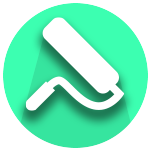
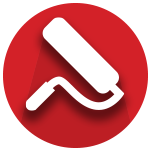
ajustes diseño

diff --git a/public/css/ferrobet.css b/public/css/ferrobet.css
@@ -1,4 +1,7 @@
 
+header.en-grupos {
+  background-image: url('../img/header-bg-engrupos.jpg') !important;
+}
 .text-primary {
   color: #d32128;
 }
@@ -7,18 +10,19 @@ body {
   font-family: 'Exo 2', sans-serif;
   font-size: 14px;
   line-height: 1.42857143;
-  color: #bdccd4;
-  background-color: #001f00;
+  color: #9a989b;
+  background-color: #575756;
 }
 
 a {
-  color: #d32128;
+  color: #9a989b;
 }
 a:hover,
 a:focus,
 a:active,
 a.active {
-  color: #af1e29;
+  color: #fff;
+  text-decoration: none;
 }
 
 h1, 
@@ -43,13 +47,16 @@ h4,
 	text-align: center;
   	margin-top: 20px;
   	margin-bottom: 10px;
-  	color: #3dffb2;
+  	color: #fff;
 }
 
-
+h4.service-heading
+{
+  font-size:24px;
+}
 strong {
   font-weight: 600;
-  color: #3dffb2;
+  color: #fff;
 }
 
 .footer-espacios {
@@ -58,7 +65,7 @@ strong {
 }
 .footer-color {
   color: white;
-  background-color: #575756;
+  background-color: #9a989b;
 }
 .footer-color strong {
   color:#fff;
@@ -74,12 +81,12 @@ strong {
 }
 
 .preparacion-color {
-	background-color: #013801;
+	background-color: #414041;
   border-radius: 5px;
   margin-bottom: 10px;
 }
 .aplicacion-color {
-	background-color: #025102;
+	background-color: #393839;
   border-radius: 5px;
 }
 .puntodeventa-color {
@@ -110,9 +117,9 @@ strong {
 .btn-primary:active,
 .btn-primary.active,
 .open .dropdown-toggle.btn-primary {
-  color: #001f00 !important;
-  background-color: #97ffd2 !important;
-  border-color: #3dffb2 !important;
+  color: #fff !important;
+  background-color: #a31a24 !important;
+  border-color: #fff !important;
 }
 .btn-primary:active,
 .btn-primary.active,
@@ -134,11 +141,11 @@ fieldset[disabled] .btn-primary:active,
 .btn-primary.disabled.active,
 .btn-primary[disabled].active,
 fieldset[disabled] .btn-primary.active {
-  background-color: #3dffb2;
-  border-color: #3dffb2;
+  background-color: #fff;
+  border-color: #fff;
 }
 .btn-primary .badge {
-  color: #3dffb2;
+  color: #fff;
   background-color: white;
 }
 
@@ -152,8 +159,8 @@ fieldset[disabled] .btn-primary.active {
 
 .btn-xl {
   color: #001f00;
-  background-color: #3dffb2;
-  border-color: #3dffb2;
+  background-color: #fff;
+  border-color: #fff;
   font-family: 'Exo 2', sans-serif;
   text-transform: uppercase;
   font-weight: 700;
@@ -168,7 +175,7 @@ fieldset[disabled] .btn-primary.active {
 .open .dropdown-toggle.btn-xl {
   color: #001f00;
   background-color: #a2f9d4;
-  border-color: #3dffb2;
+  border-color: #fff;
 }
 .btn-xl:active,
 .btn-xl.active,
@@ -190,11 +197,11 @@ fieldset[disabled] .btn-xl:active,
 .btn-xl.disabled.active,
 .btn-xl[disabled].active,
 fieldset[disabled] .btn-xl.active {
-  background-color: #3dffb2;
-  border-color: #3dffb2;
+  background-color: #fff;
+  border-color: #fff;
 }
 .btn-xl .badge {
-  color: #3dffb2;
+  color: #fff;
   background-color: white;
 }
 
@@ -231,7 +238,7 @@ fieldset[disabled] .btn-xl.active {
 .navbar-custom .navbar-nav > .active > a {
   border-radius: 0;
   color: #001f00;
-  background-color: #3dffb2;
+  background-color: #fff;
 }
 .navbar-custom .navbar-nav > .active > a:hover,
 .navbar-custom .navbar-nav > .active > a:focus {

diff --git a/resources/views/producto.blade.php b/resources/views/producto.blade.php
@@ -9,8 +9,8 @@
         <!-- Page Header -->
         <div class="row">
             <div class="col-lg-12">
-                <h1>DUO EFECTOS ESPECIALES</h1><br>
-                <h3>Para metales</h3>
+                <h1>{{$producto->nombre}}</h1><br>
+                <h3>{{$producto->descripcion}}</h3>
                 <h4>• Terminación rústica.<br>
                     • Brillo Mate.
                 </h4>
@@ -25,7 +25,7 @@
                 En el caso de los forjados, utilizan en su formulación pigmentos de óxido de hierro micáceo, son químicamente inalterables, debido a la estructura laminar de su partícula que establece una barrera física que evita el paso del agua y sus sales; factores nocivos frente a la corrosión. Su elástica película no se cuartea ni resquebraja, conservando muy buena adherencia, sin ampollarse ni descascararse. Embellecen los metales ferrosos con un mínimo de mano de obra, sencilla aplicación y notable economía de producto, brindando una textura de especial estilo, tanto para exteriores como para interiores.</p>
             </div>
             <div class="col-sm-6 col-md-4">
-                    <img class="img-responsive" src="{{URL::to('img/latavacia.png')}}"  alt="esmalte">
+                    <img class="img-responsive" src="{{URL::to((file_exists(public_path().'/uploads/images/'.$producto->img))?'uploads/images/'.$producto->img:'img/latavacia.png')}}"  alt="{{$producto->nombre}}">
             </div>
             <div class="col-sm-6 col-sm-offset-4 col-md-4 col-md-offset-0">
                 <p><strong>Rendimiento:</strong> 12 a 15 m²/lt. por mano, dependiendo del espesor, de la dilución, de la rugosidad de la superficie.<br>

diff --git a/resources/views/welcome.blade.php b/resources/views/welcome.blade.php
@@ -5,7 +5,7 @@
 
 @section('content')
 <!-- Header -->
-    <header>
+    <header class="en-grupos">
         <div class="container container-body">
             <div class="intro-text">
                 &nbsp;
@@ -24,12 +24,15 @@
             <div class="row text-center">
                 @foreach($categorias as $categoria)
                 <div class="col-md-4">
-                    <div class="row"><!-- Picto -->
-                     <img class="img-responsive center-block img-circle" src="{{URL::to('img/'.$categoria->picto.'.png')}}" alt="esmaltes">
-                    </div>
+                    
                     <h4 class="service-heading">{{$categoria->nombre}}</h4>
                     @foreach($categoria->productos as $producto)
-                    <p class="text-muted"><a href="#">{{$producto->nombre}}</a><br>
+                    @if(file_exists(public_path().'/uploads/images/'.$producto->img_chica))
+                    <div class="row"><!-- Picto -->
+                     <a href="/producto/{{$producto->slug}}"><img border='none' class="img-responsive center-block img-circle" src="{{URL::to('uploads/images/'.$producto->img_chica)}}" alt="{{$producto->nombre}}"></a>
+                    </div>
+                    @endif
+                    <p class="text-muted"><a href="/producto/{{$producto->slug}}">{{$producto->nombre}}</a><br>
                     {{$producto->descripcion}}</p>
                     @endforeach
                 </div>

diff --git a/resources/views/menu.blade.php b/resources/views/menu.blade.php
@@ -21,7 +21,7 @@
                       </button>
                       <ul class="dropdown-menu">
                         @foreach($categoria->productos as $producto)
-                        <li><a href="/producto">{{$producto->nombre}}</a></li>
+                        <li><a href="/producto/{{$producto->slug}}">{{$producto->nombre}}</a></li>
                         @endforeach
                       </ul>
                   </div>
@@ -35,7 +35,7 @@
                         <li></li>
                             <a  class="btn btn-default" href="/puntos-de-venta">Puntos de Venta</a>
                         <li></li>
-                            <a class="btn btn-default" href="https://www.youtube.com/watch?v=Kdj9CtpQKl4" target="_blank">Videos</a>
+                            <a class="btn btn-default" href="https://www.youtube.com/channel/UCZHgDtYmIUBg5rKISDqEIFg" target="_blank">Videos</a>
                         <li></li>
                         <div class="btn-group">
                           <button type="button" class="btn btn-default dropdown-toggle" data-toggle="dropdown" aria-haspopup="true" aria-expanded="false">Contacto<span class="caret"></span>

diff --git a/database/migrations/2016_08_04_154054_alter_productos_imgs.php b/database/migrations/2016_08_04_154054_alter_productos_imgs.php
@@ -1,0 +1,32 @@
+<?php
+
+use Illuminate\Database\Schema\Blueprint;
+use Illuminate\Database\Migrations\Migration;
+
+class AlterProductosImgs extends Migration
+{
+    /**
+     * Run the migrations.
+     *
+     * @return void
+     */
+    public function up()
+    {
+        Schema::table('productos', function (Blueprint $table) {
+            $table->string('img')->nullable();
+            $table->string('img_chica')->nullable();
+        });
+    }
+
+    /**
+     * Reverse the migrations.
+     *
+     * @return void
+     */
+    public function down()
+    {
+        Schema::table('productos', function (Blueprint $table) {
+            $table->dropColumn(['img','img_chica']);
+        });
+    }
+}

diff --git a/database/migrations/2016_08_04_160318_alter_productos_slug.php b/database/migrations/2016_08_04_160318_alter_productos_slug.php
@@ -1,0 +1,31 @@
+<?php
+
+use Illuminate\Database\Schema\Blueprint;
+use Illuminate\Database\Migrations\Migration;
+
+class AlterProductosSlug extends Migration
+{
+    /**
+     * Run the migrations.
+     *
+     * @return void
+     */
+    public function up()
+    {
+        Schema::table('productos', function (Blueprint $table) {
+            $table->string('slug')->default('');
+        });
+    }
+
+    /**
+     * Reverse the migrations.
+     *
+     * @return void
+     */
+    public function down()
+    {
+        Schema::table('productos', function (Blueprint $table) {
+            $table->dropColumn(['slug']);
+        });
+    }
+}

diff --git a/app/Producto.php b/app/Producto.php
@@ -6,7 +6,7 @@ use Illuminate\Database\Eloquent\Model;
 
 class Producto extends Model
 {
-    protected $fillable = ["categoria_id","nombre","descripcion","descripcion_larga","preparacion","aplicacion","caracteristicas"];
+    protected $fillable = ["categoria_id","nombre","descripcion","descripcion_larga","preparacion","aplicacion","caracteristicas","img","img_chica","slug"];
 
     public function categoria(){
     	return $this->belongsTo('App\Categoria');
@@ -14,4 +14,6 @@ class Producto extends Model
     public function getLaCategoriaAttribute(){
     	return $this->categoria->nombre;
     }
+
+
 }

diff --git a/app/Http/Controllers/ProductoController.php b/app/Http/Controllers/ProductoController.php
@@ -40,9 +40,15 @@ class ProductoController extends CrudController{
 
 			$this->edit->label('Editar Producto');
 
+			$this->edit->add('slug', 'Slug', 'text')->rule('required');
+			
 			$this->edit->add('nombre', 'Nombre', 'text')->rule('required');
 		
 			$this->edit->add('descripcion', 'Descripcion', 'text');
+
+			$this->edit->add('img', 'Foto', 'image')->move('uploads/images/')->preview(160,160);
+			
+			$this->edit->add('img_chica', 'Foto Chica', 'image')->move('uploads/images/')->preview(80,80);
 
         return $this->returnEditView();
     }    

diff --git a/app/Http/routes.php b/app/Http/routes.php
@@ -16,6 +16,10 @@
 Route::get('/', function () {
     return view('welcome',['title'=>'Proteje tus metales']);
 });
+Route::get('/producto/{slug}', function ($slug) {
+	$producto = App\Producto::where('slug','=',$slug)->firstOrFail();
+    return view('producto',['title'=>$producto->nombre,'producto'=>$producto]);
+});
 Route::get('/producto', function () {
     return view('producto',['title'=>'Producto']);
 });

diff --git a/database/seeds/DatabaseSeeder.php b/database/seeds/DatabaseSeeder.php
@@ -57,11 +57,6 @@ class ProductoTableSeeder extends Seeder
 			],
 			[
 				"categoria_id"=>3,
-				"nombre"=>"ANTIOXIDO FERROBET",
-				"descripcion"=>"Fondo para superficies ferrosas",
-			],
-			[
-				"categoria_id"=>3,
 				"nombre"=>"FERRO BET DESOXIDANTE",
 				"descripcion"=>"Desoxidante y fosfatizante para metales.",
 			],
